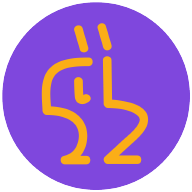
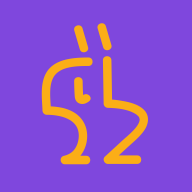
Deploying to gh-pages from @ yuorb/enthrirch@f67f35f7acb01a1bc587c793e3faae70b9783ff4 🚀

diff --git a/flutter_service_worker.js b/flutter_service_worker.js
@@ -3,8 +3,8 @@ const MANIFEST = 'flutter-app-manifest';
 const TEMP = 'flutter-temp-cache';
 const CACHE_NAME = 'flutter-app-cache';
 
-const RESOURCES = {"index.html": "8a50ef0073996354bed031a8e3074914",
-"/": "8a50ef0073996354bed031a8e3074914",
+const RESOURCES = {"index.html": "641dc7dbd7a3f44e3627e57677c6c28c",
+"/": "641dc7dbd7a3f44e3627e57677c6c28c",
 "assets/shaders/ink_sparkle.frag": "f8b80e740d33eb157090be4e995febdf",
 "assets/NOTICES": "893028cefbe343d9965d75700ea2e457",
 "assets/fonts/MaterialIcons-Regular.otf": "5b85702f887f1d467c2b1e0c58c249be",
@@ -21,13 +21,13 @@ const RESOURCES = {"index.html": "8a50ef0073996354bed031a8e3074914",
 "canvaskit/skwasm.wasm": "6711032e17bf49924b2b001cef0d3ea3",
 "canvaskit/chromium/canvaskit.wasm": "fc18c3010856029414b70cae1afc5cd9",
 "canvaskit/chromium/canvaskit.js": "8c8392ce4a4364cbb240aa09b5652e05",
-"favicon.png": "3adcc2cfbfe868c2239078b2fe0cf930",
+"favicon.png": "dfd385f1164c78a105798b8b008166f0",
 "main.dart.js": "178da14fac5d82faf20d73c3ebd992df",
 "flutter.js": "6fef97aeca90b426343ba6c5c9dc5d4a",
-"icons/Icon-maskable-192.png": "d5463968063ec28ab837aa711ab1491d",
-"icons/Icon-maskable-512.png": "8d50ce2d4e81ebc72e16b4fa07cd2e94",
-"icons/Icon-192.png": "d5463968063ec28ab837aa711ab1491d",
-"icons/Icon-512.png": "8d50ce2d4e81ebc72e16b4fa07cd2e94"};
+"icons/Icon-maskable-192.png": "d9548e24dde74f6393eb639e770ec59c",
+"icons/Icon-maskable-512.png": "8b65b312782062a346c25b14f224b70b",
+"icons/Icon-192.png": "d9548e24dde74f6393eb639e770ec59c",
+"icons/Icon-512.png": "8b65b312782062a346c25b14f224b70b"};
 // The application shell files that are downloaded before a service worker can
 // start.
 const CORE = ["main.dart.js",

diff --git a/index.html b/index.html
@@ -34,7 +34,7 @@
 
   <script>
     // The value below is injected by flutter build, do not touch.
-    var serviceWorkerVersion = "3166159727";
+    var serviceWorkerVersion = "4188085172";
   </script>
   <!-- This script adds the flutter initialization JS code -->
   <script src="flutter.js" defer></script>
